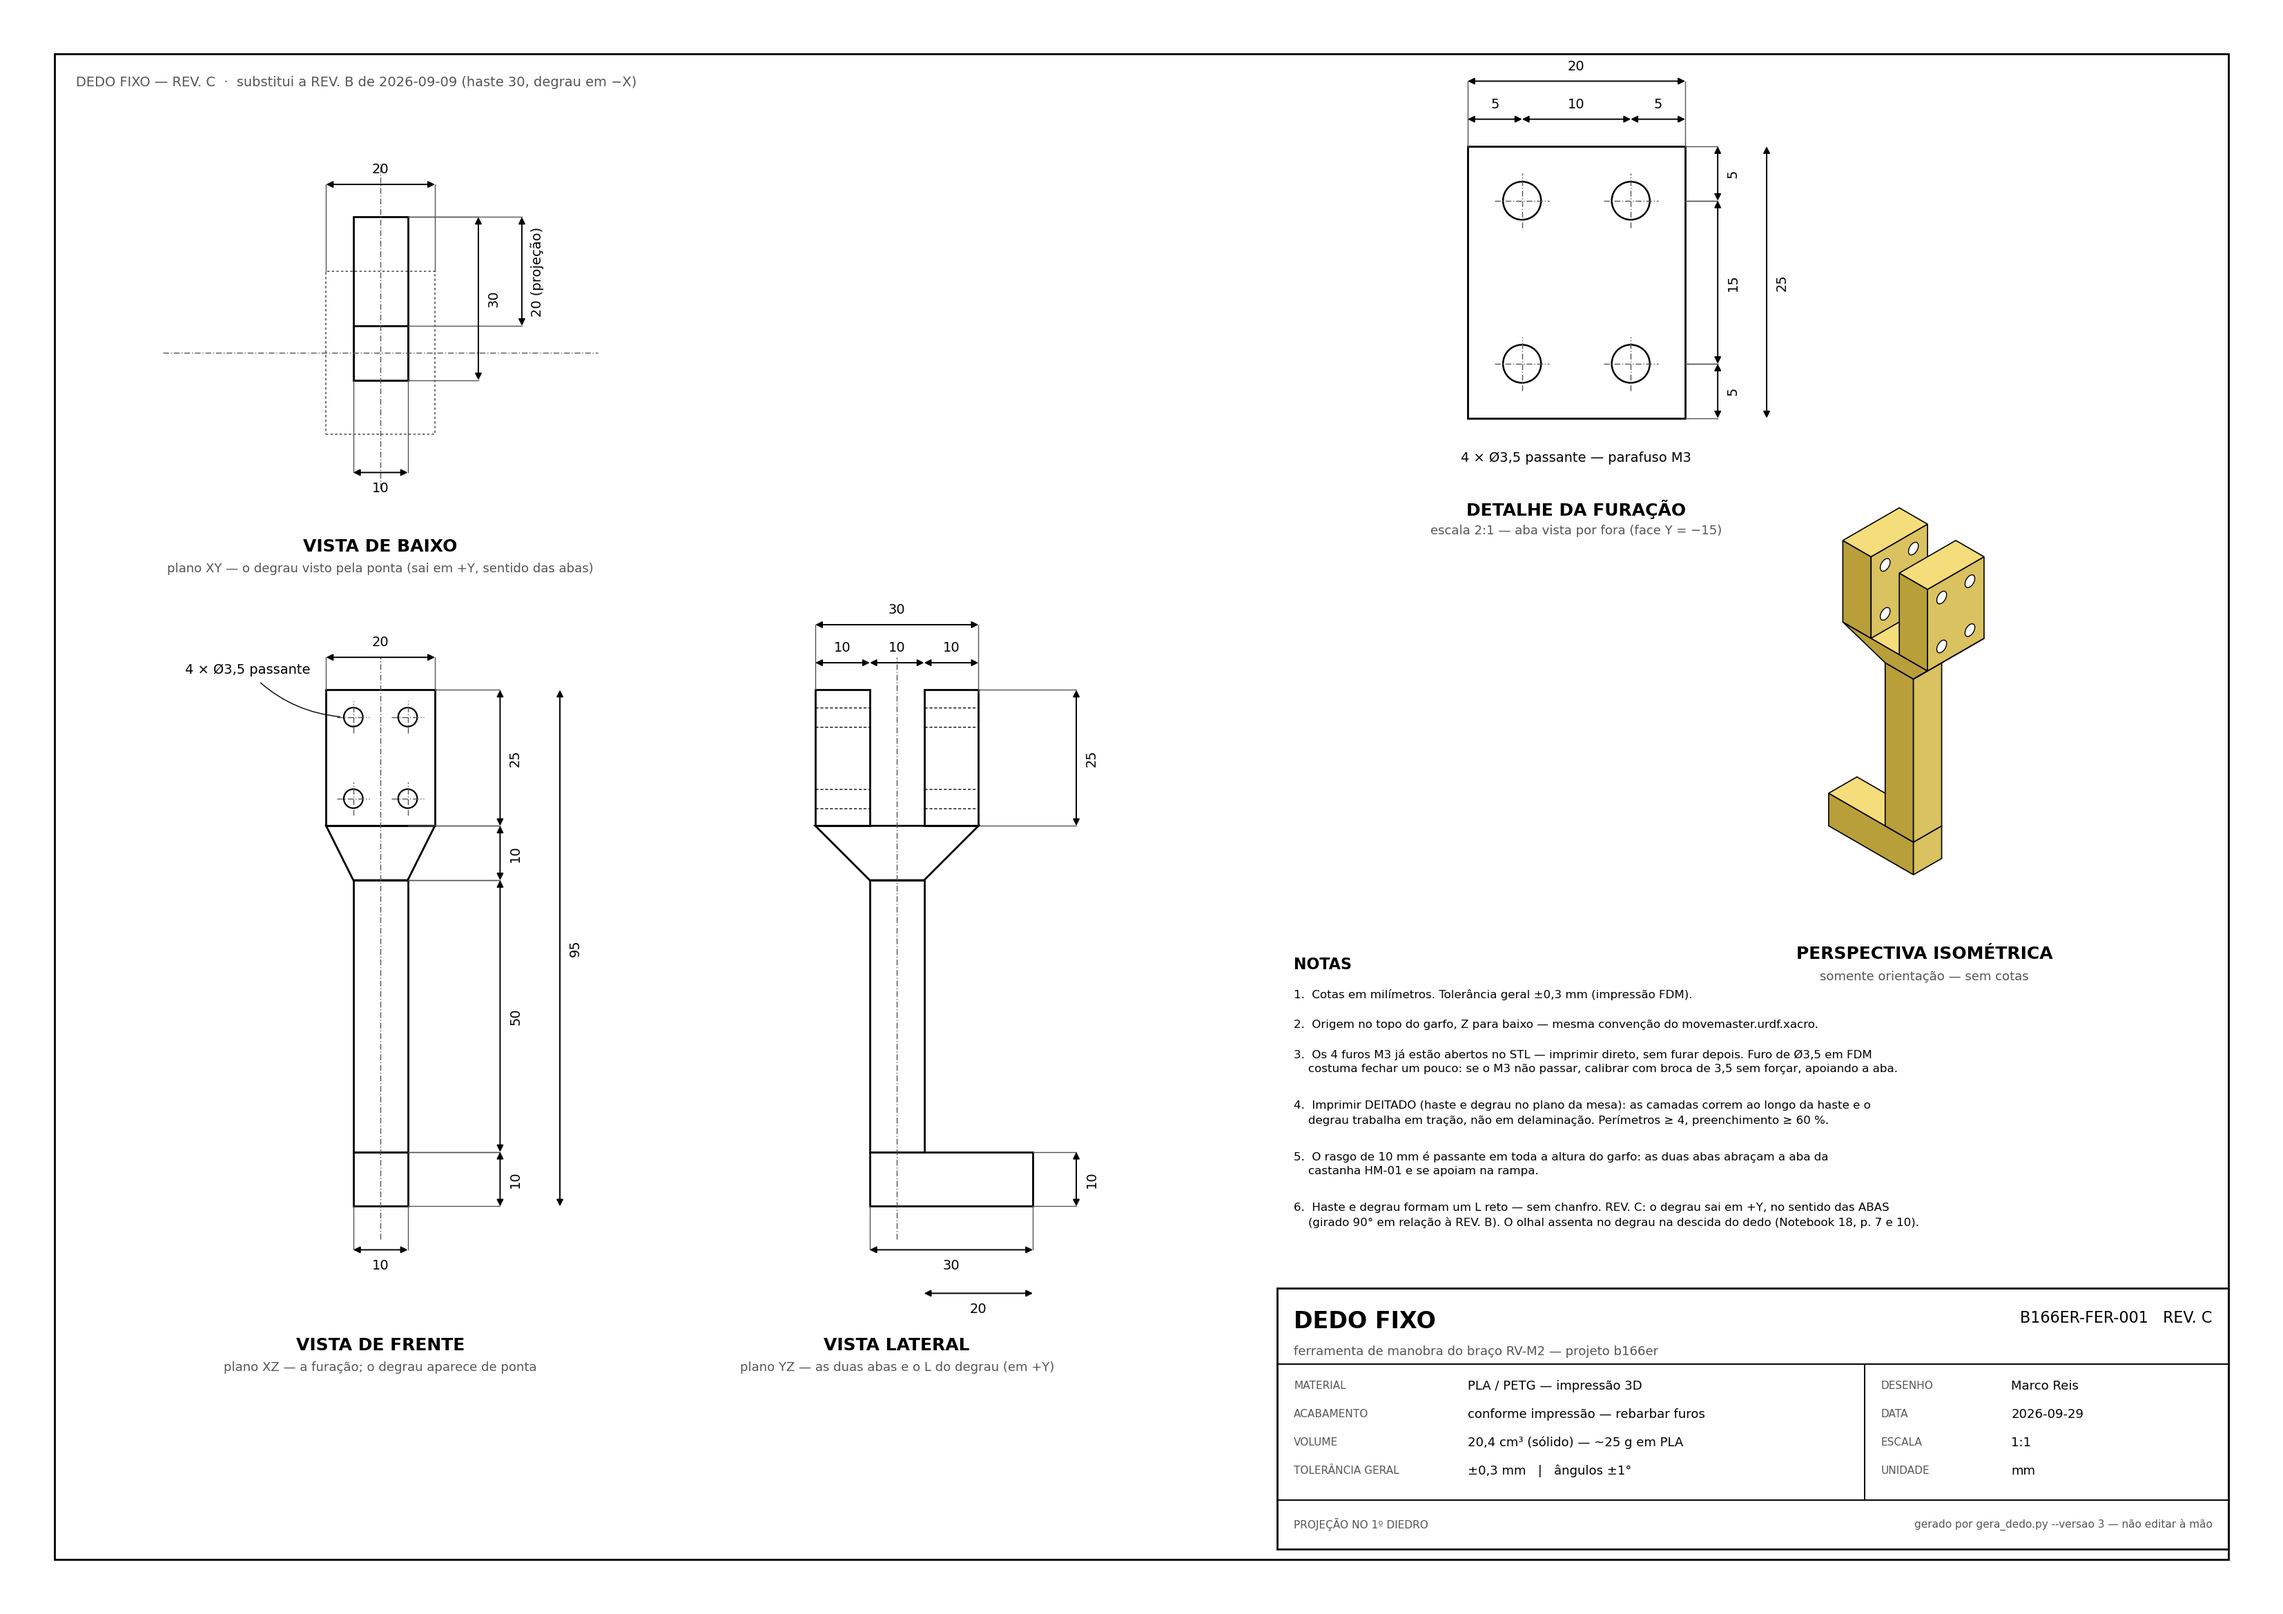
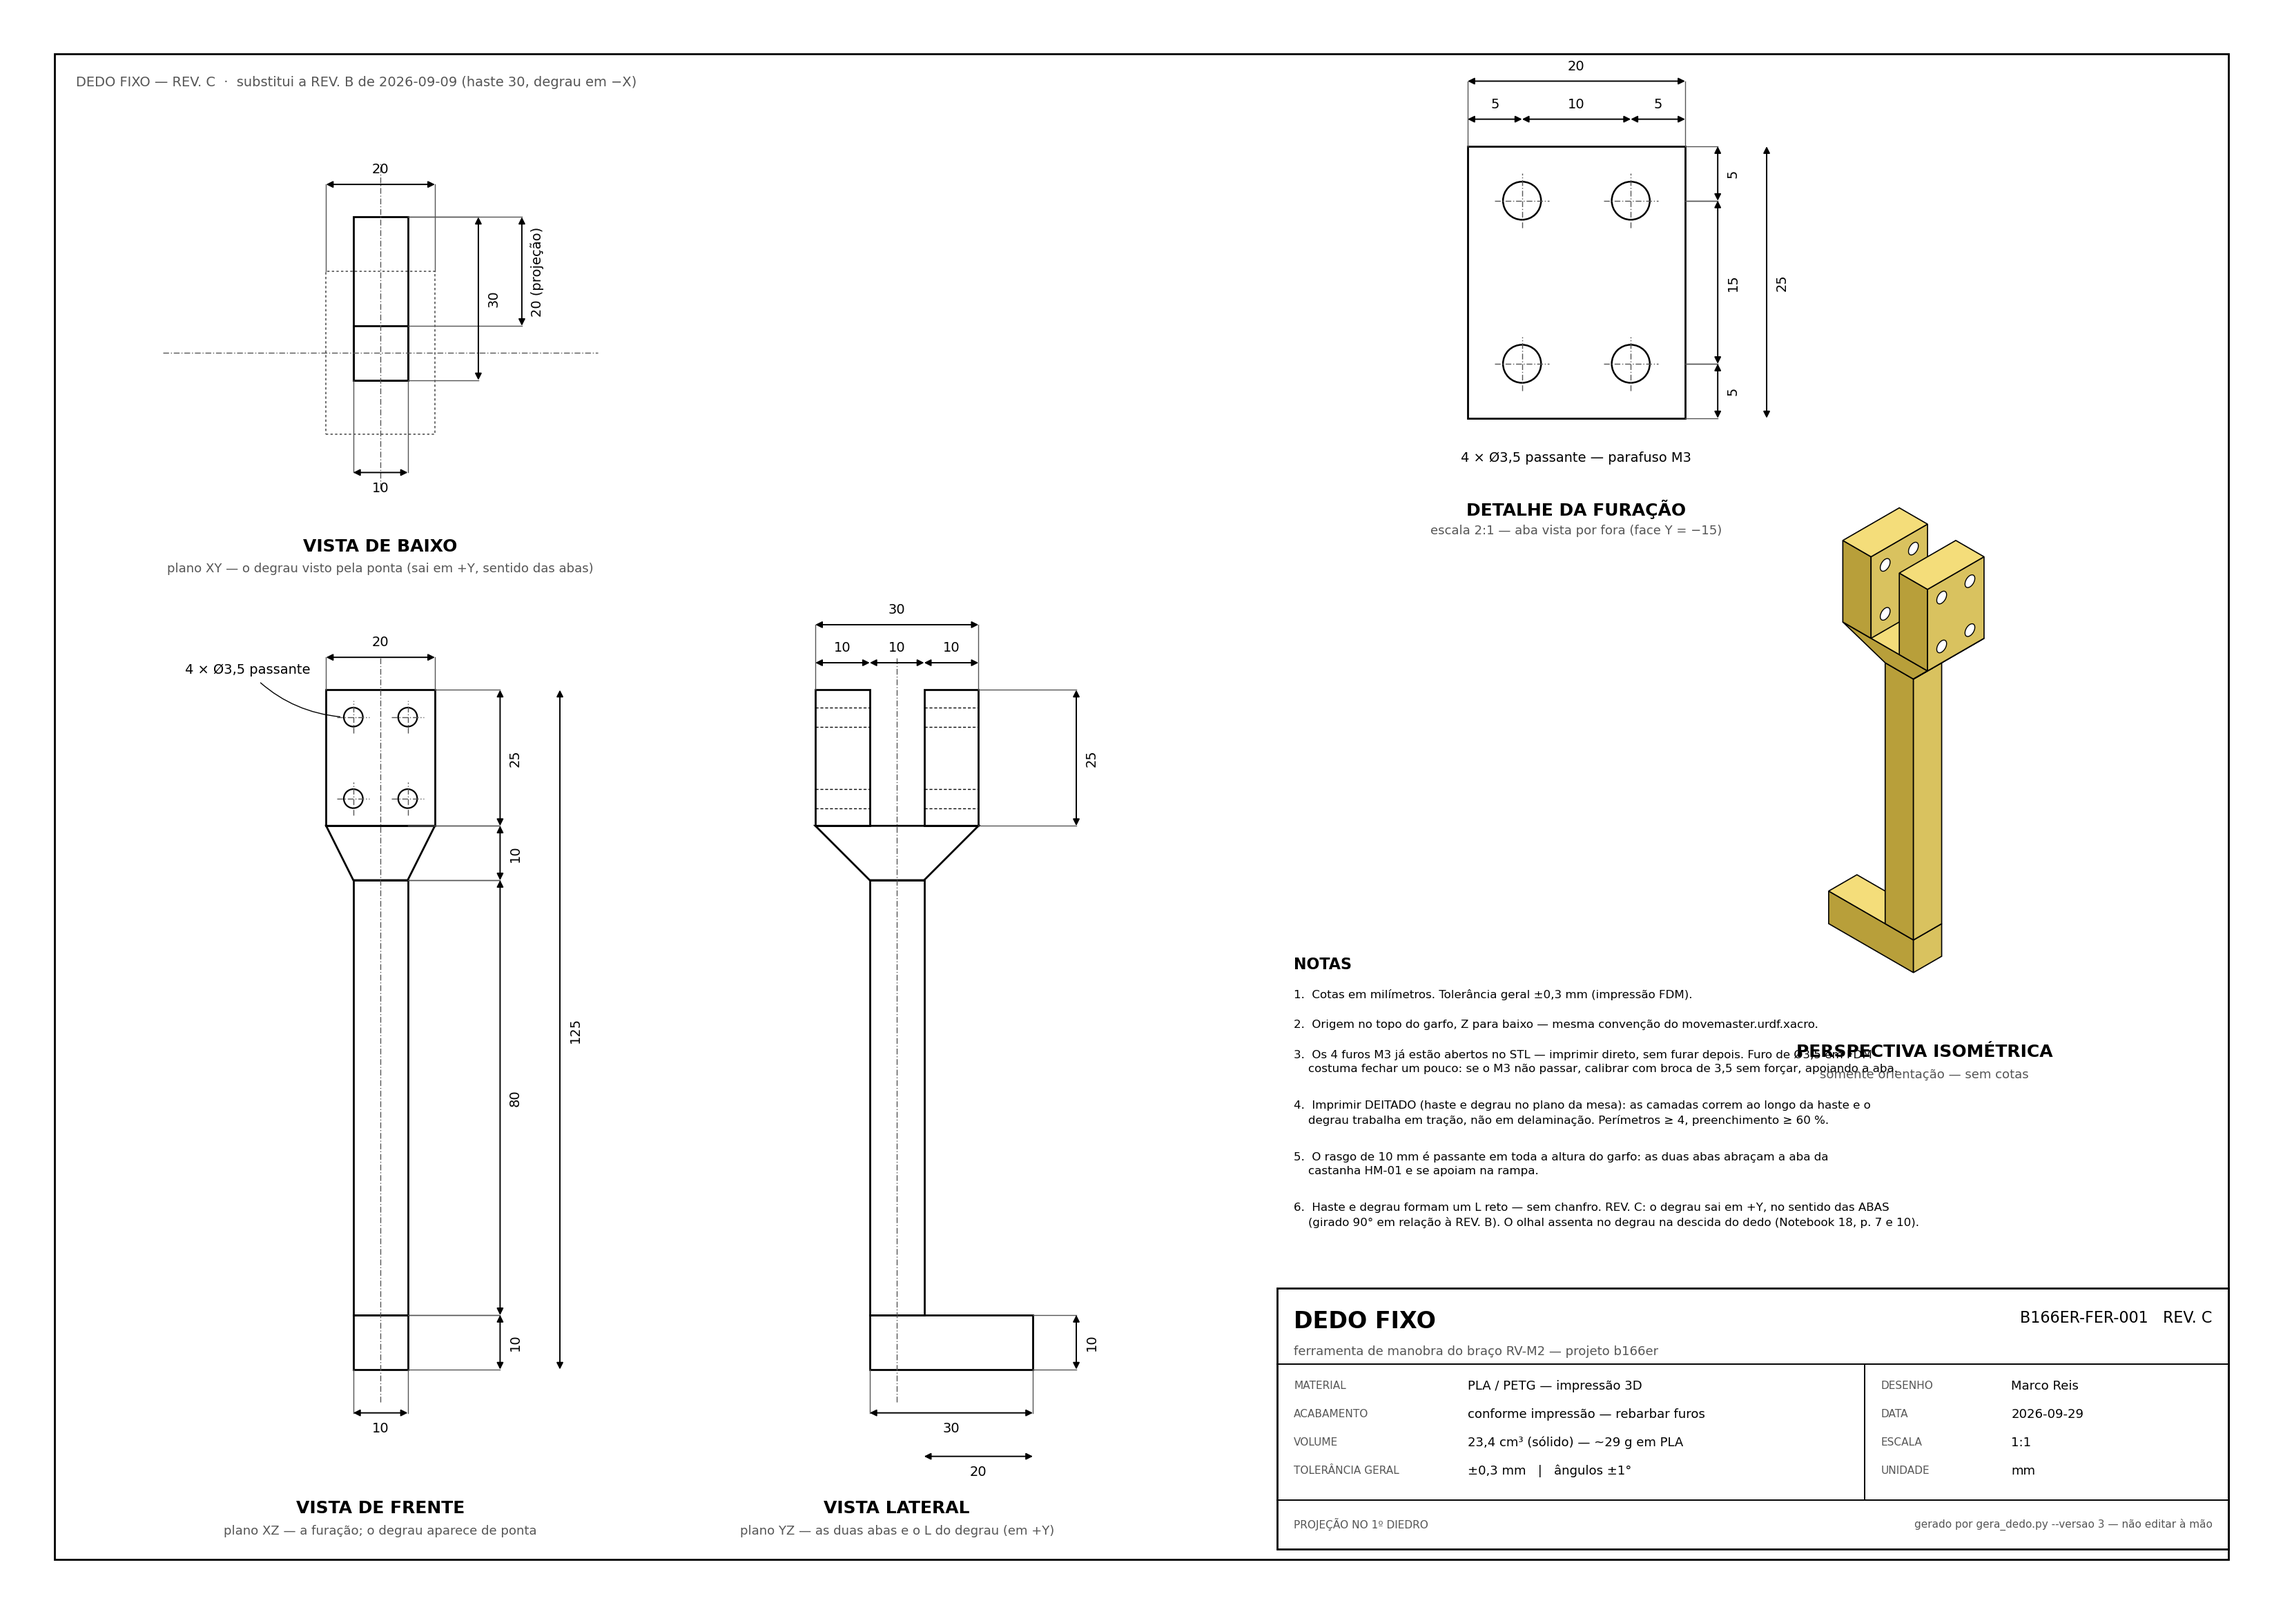
fix(b166er_robot): dedo v3 com haste de 80 mm, o comprimento do modelo da simulação
Marco: "altere para 80 também na versão 3". Total 125, 23,4 cm³; o
tool_tip do URDF e kinematics._T_L5_TOOLTIP (−0,115) já casam com a v3.

Claude-Session: https://claude.ai/code/session_01P4v3ZvEh2bwom2DYHA9moN

diff --git a/src/b166er_robot/scripts/gera_dedo.py b/src/b166er_robot/scripts/gera_dedo.py
@@ -21,11 +21,11 @@ dedo_fixo_vN_desenho.pdf/.png):
       x 15 (Z) a 5 mm das bordas, ABERTOS no STL; rampa 10; HASTE 30;
       degrau 20 em -X; total 75.
   v3  REV. C, 29 Set 2026 — pedido do Marco: "o degrau tem que rotacionar
-      90 graus" (opção B do desenho de alternativas) e "na versão 3 a
-      haste tem 50 mm". Geometria da v2 com HASTE 50 (total 95) e o
-      degrau em +Y, no sentido das ABAS. kinematics.DEGRAU_DIR_TIP e o
-      tool_tip do URDF acompanham a direção; o comprimento no modelo
-      (dedo_haste_l) ainda é o da v1 — ver README das malhas.
+      90 graus" (opção B do desenho de alternativas) e "altere para 80
+      também na versão 3". Geometria da v2 (garfo com rasgo passante e
+      furos abertos) com HASTE 80 (total 125, como no modelo da simulação)
+      e o degrau em +Y, no sentido das ABAS. kinematics.DEGRAU_DIR_TIP e o
+      tool_tip do URDF acompanham; o comprimento já era o do modelo.
 
 A prancha das v2/v3 segue o formato padrão da REV. B: A3 paisagem com
 moldura, VISTA DE BAIXO / DE FRENTE / LATERAL cotadas em 1:1, DETALHE DA
@@ -56,7 +56,7 @@ GEO = {
             degrau_eixo='-x', rev='B', data='2026-09-09',
             substitui='REV. A de 2026-09-02 (haste 80, total 125)'),
     3: dict(garfo_h=25.0, garfo_x=20.0, aba=10.0, rasgo=10.0, rasgo_prof=25.0,
-            afun_h=10.0, haste_l=50.0, haste=10.0, degrau_l=20.0, degrau_z=10.0,
+            afun_h=10.0, haste_l=80.0, haste=10.0, degrau_l=20.0, degrau_z=10.0,
             furo_dx=10.0, furo_dz=15.0, furo_d=3.5, furos_no_stl=True,
             degrau_eixo='+y', rev='C', data='2026-09-29',
             substitui='REV. B de 2026-09-09 (haste 30, degrau em −X)'),

diff --git a/src/b166er_robot/meshes/movemaster/README.md b/src/b166er_robot/meshes/movemaster/README.md
@@ -77,14 +77,13 @@ Numeração do Marco:
   Downloads do Marco em 29 Set. `gera_dedo.py --versao 2` a REPRODUZ a
   partir das cotas da prancha (mesmos 1236 triângulos e 18,4 cm³).
 - **v3** ("REV. C", 29 Set 2026): pedido do Marco, "o degrau tem que
-  rotacionar 90 graus" e "na versão 3 a haste tem 50 mm" — a v2 com
-  **haste de 50 (total 95)** e o degrau em **+Y**, no sentido das abas do
-  U; 20,4 cm³. Prancha no mesmo formato padrão da REV. B em
-  `docs/dedo_fixo_v3_desenho.*`. O URDF (`tool_tip`) e
-  `kinematics.DEGRAU_DIR_TIP` acompanham a DIREÇÃO do degrau; o
-  COMPRIMENTO da haste no modelo (`dedo_haste_l` = 0,080 e o −0,115 de
-  `kinematics._T_L5_TOOLTIP`) ainda é o da v1 — a simulação de 24 Set
-  rodou com 80, não com 50. Alinhar o modelo à v3 é uma PR própria.
+  rotacionar 90 graus" — a v2 (garfo com rasgo passante e furos abertos)
+  com **haste de 80 (total 125, o mesmo comprimento do modelo da
+  simulação)** e o degrau em **+Y**, no sentido das abas do U; 23,4 cm³.
+  Prancha no formato padrão da REV. B em `docs/dedo_fixo_v3_desenho.*`.
+  O URDF (`tool_tip`) e `kinematics.DEGRAU_DIR_TIP` acompanham a direção
+  do degrau; `dedo_haste_l` = 0,080 já casa com a v3. O que o modelo
+  ainda simplifica: o garfo é uma caixa de 20 × 25 sem rasgo nem furos.
 
 A v1 não traz os furos no STL; v2 e v3 trazem (grade 10 × 15, a
 conferir contra a castanha — passe o medido a `gera_dedo.py --furo-dx
